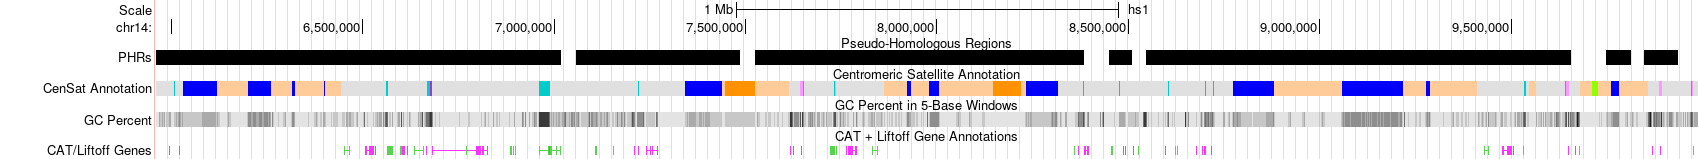
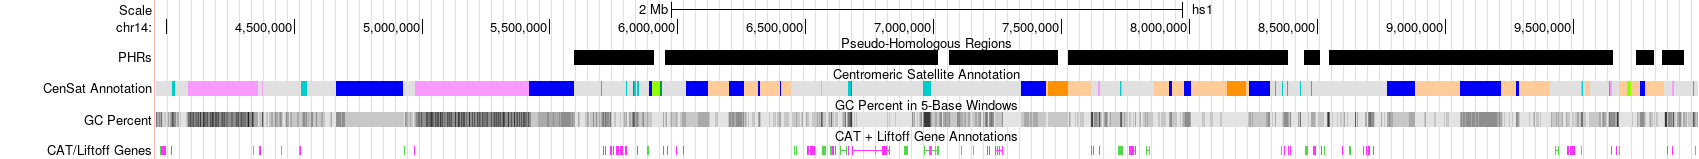
fix chr14 annotation

diff --git a/workflows/5_Review.md b/workflows/5_Review.md
@@ -335,7 +335,7 @@ Rscript /lizardfs/guarracino/chromosome_communities/scripts/plot_untangle_with_a
   3 1 \
   14 \
   0.9 \
-  <(echo 'chm13#chr14' 'grch38#chr14' 'HG002#MAT#chr14.prox' 'HG002#PAT#chr14.prox' 'HG00735#1#JAHBCH010000039.1' 'HG00741#2#JAHALX010000038.1' 'HG01978#1#JAGYVS010000055.1' 'HG02630#1#JAHAOQ010000067.1' | tr ' ' '\n') \
+  <(echo 'chm13#chr14' 'grch38#chr14' 'HG002#MAT#chr14.prox' 'HG002#PAT#chr14.prox' 'HG00735#1#JAHBCH010000039.1' 'HG00741#2#JAHALX010000038.1' 'HG01978#1#JAGYVS010000055.1' 'HG03453#2#JAGYVV010000008.1' | tr ' ' '\n') \
   /lizardfs/guarracino/chromosome_communities/data/annotation/genome_browser_chr14_SST1_1Mbps_CenSatAnnDense.png \
   /lizardfs/guarracino/chromosome_communities/untangle/grounded/Figure5.chr14.SST1.1Mbps.n1.nref1.pdf
 
@@ -368,18 +368,18 @@ Rscript /lizardfs/guarracino/chromosome_communities/scripts/plot_untangle_with_a
   /lizardfs/guarracino/chromosome_communities/data/annotation/genome_browser_chr13_SST1_3Mbps_CenSatAnnDense.png \
   /lizardfs/guarracino/chromosome_communities/untangle/grounded/Figure5.chr13.SST1.3Mbps.n1.nref1.pdf
   
-#chm13#chr14  3960008 6988409 SST_Composite#222222
+#chm13#chr14  6960008 6988409 SST_Composite#222222
 path_grounded_pq_touching_reliable_tsv_gz=/lizardfs/guarracino/chromosome_communities/untangle/grounded/chrACRO+refs.pq_contigs.1kbps.hg002prox.hg002hifi.fa.gz.7ef1ba2.04f1c29.ebc49e1.smooth.final.untangle.chm13#chr14.e50000.m1000.grounded.pq_touching.reliable.tsv.gz
 Rscript /lizardfs/guarracino/chromosome_communities/scripts/plot_untangle_with_annotation_SST1.R \
   $path_grounded_pq_touching_reliable_tsv_gz \
-  5960008 9988409 \
+  3960008 9988409 \
   90 0.9 7.5 \
   1.0 \
   3 1 \
   14 \
   0.9 \
-  <(echo 'chm13#chr14' 'grch38#chr14' 'HG002#MAT#chr14.prox' 'HG002#PAT#chr14.prox' 'HG00735#1#JAHBCH010000039.1' 'HG00741#2#JAHALX010000038.1' 'HG01978#1#JAGYVS010000055.1' 'HG02630#1#JAHAOQ010000067.1' | tr ' ' '\n') \
-  /lizardfs/guarracino/chromosome_communities/data/annotation/genome_browser_chr14_SST1_3bps_CenSatAnnDense.png \
+  <(echo 'chm13#chr14' 'grch38#chr14' 'HG002#MAT#chr14.prox' 'HG002#PAT#chr14.prox' 'HG00735#1#JAHBCH010000039.1' 'HG00741#2#JAHALX010000038.1' 'HG01978#1#JAGYVS010000055.1' 'HG03453#2#JAGYVV010000008.1' | tr ' ' '\n') \
+  /lizardfs/guarracino/chromosome_communities/data/annotation/genome_browser_chr14_SST1_3Mbps_CenSatAnnDense.png \
   /lizardfs/guarracino/chromosome_communities/untangle/grounded/Figure5.chr14.SST1.3Mbps.n1.nref1.pdf
 
 #chm13#chr21  9375567 9453313   SST1_Composite#222222
